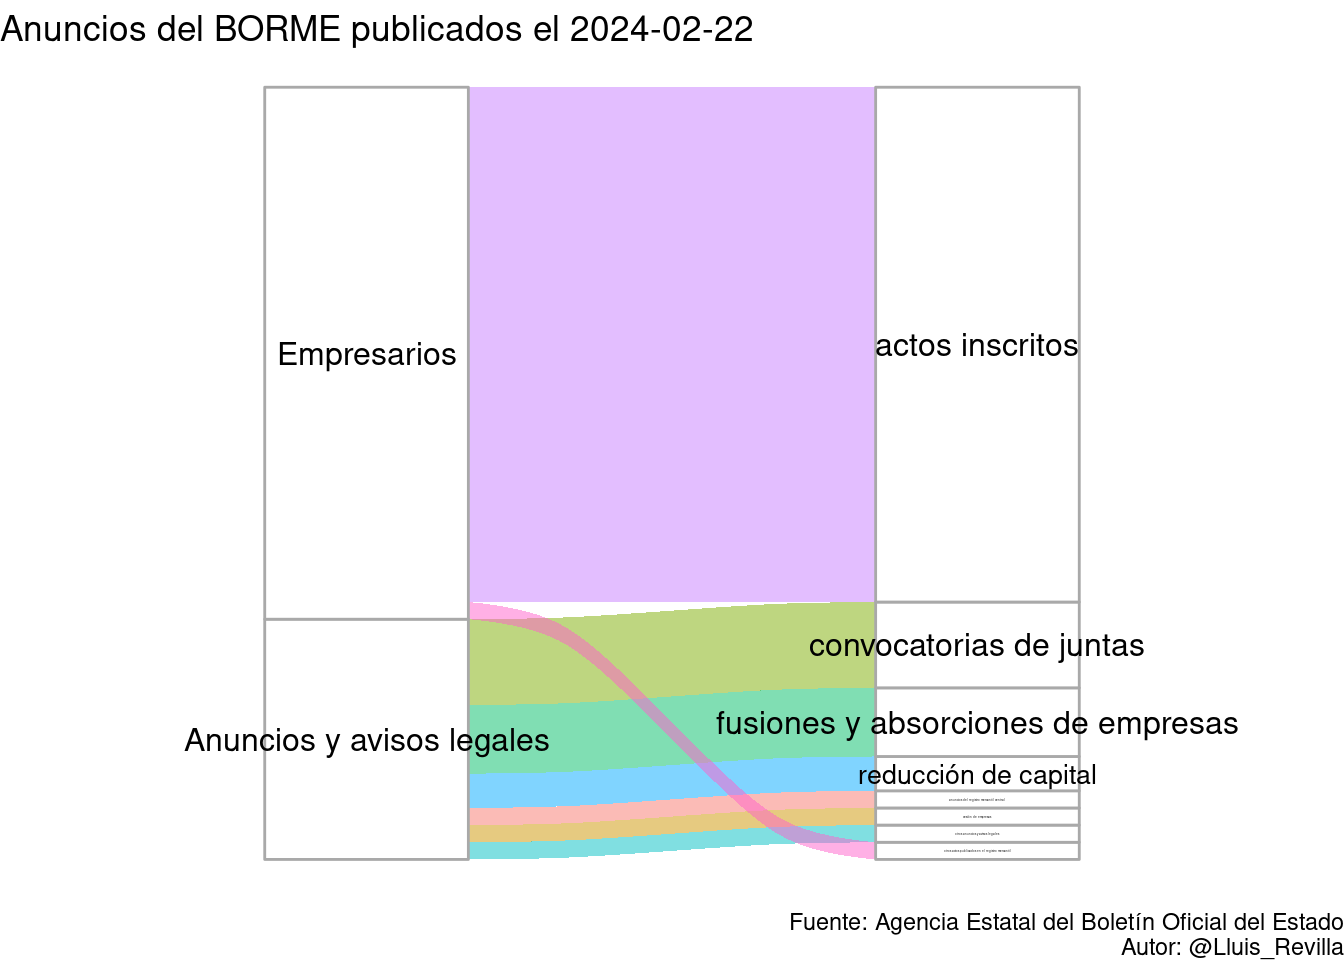
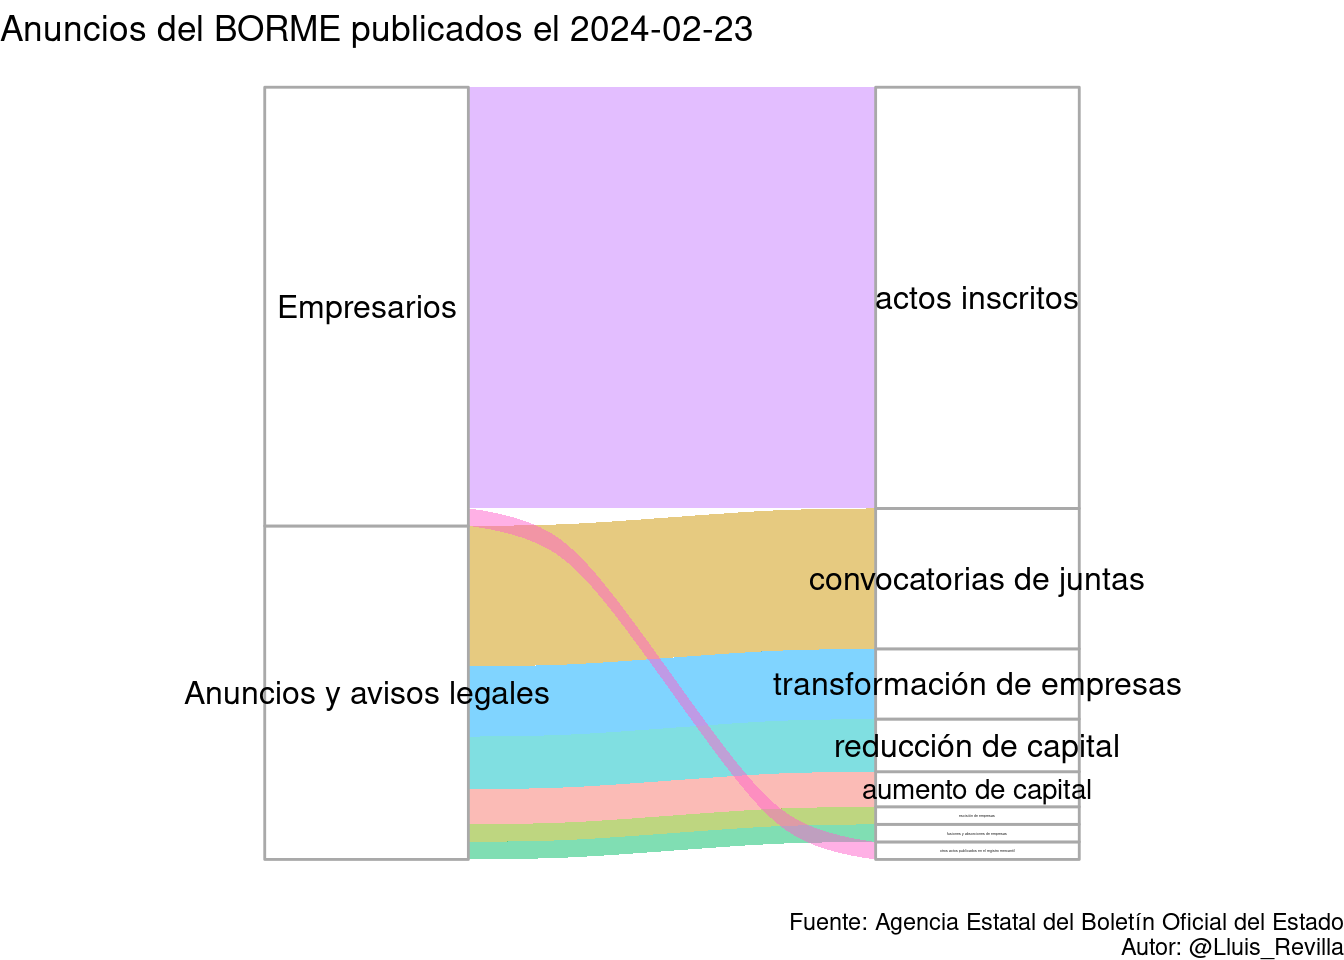
Update BORME

Changed region(s): [[0.125, 0.5312, 0.9375, 0.9062], [0.6562, 0.2812, 0.8125, 0.375], [0.1875, 0.3125, 0.3438, 0.375]]

diff --git a/docs/last_BORME.html b/docs/last_BORME.html
@@ -379,14 +379,14 @@ $(document).ready(function () {
 
 <div id="resumen-gráfico" class="section level1">
 <h1>Resumen gráfico</h1>
-<p>Esta página web contiene el último sumario del BORME publicado el 2024-02-22 con 45 publicaciones.</p>
+<p>Esta página web contiene el último sumario del BORME publicado el 2024-02-23 con 44 publicaciones.</p>
 <p><img src="last_BORME_files/figure-html/graphics-1.png" width="672" /></p>
 </div>
 <div id="tabla-de-publicaciones" class="section level1">
 <h1>Tabla de publicaciones</h1>
 <p>Aquí está la tabla completa con enlaces a las publicaciones:</p>
-<div class="datatables html-widget html-fill-item-overflow-hidden html-fill-item" id="htmlwidget-dfcee11cec05a3415c1f" style="width:100%;height:auto;"></div>
-<script type="application/json" data-for="htmlwidget-dfcee11cec05a3415c1f">{"x":{"filter":"top","vertical":false,"filterHTML":"<tr>\n  <td><\/td>\n  <td data-type=\"character\" style=\"vertical-align: top;\">\n    <div class=\"form-group has-feedback\" style=\"margin-bottom: auto;\">\n      <input type=\"search\" placeholder=\"All\" class=\"form-control\" style=\"width: 100%;\"/>\n      <span class=\"glyphicon glyphicon-remove-circle form-control-feedback\"><\/span>\n    <\/div>\n  <\/td>\n  <td data-type=\"character\" style=\"vertical-align: top;\">\n    <div class=\"form-group has-feedback\" style=\"margin-bottom: auto;\">\n      <input type=\"search\" placeholder=\"All\" class=\"form-control\" style=\"width: 100%;\"/>\n      <span class=\"glyphicon glyphicon-remove-circle form-control-feedback\"><\/span>\n    <\/div>\n  <\/td>\n  <td data-type=\"character\" style=\"vertical-align: top;\">\n    <div class=\"form-group has-feedback\" style=\"margin-bottom: auto;\">\n      <input type=\"search\" placeholder=\"All\" class=\"form-control\" style=\"width: 100%;\" disabled=\"\"/>\n      <span class=\"glyphicon glyphicon-remove-circle form-control-feedback\"><\/span>\n    <\/div>\n  <\/td>\n  <td data-type=\"character\" style=\"vertical-align: top;\">\n    <div class=\"form-group has-feedback\" style=\"margin-bottom: auto;\">\n      <input type=\"search\" placeholder=\"All\" class=\"form-control\" style=\"width: 100%;\"/>\n      <span class=\"glyphicon glyphicon-remove-circle form-control-feedback\"><\/span>\n    <\/div>\n  <\/td>\n<\/tr>","data":[["1","2","3","4","5","6","7","8","9","10","11","12","13","14","15","16","17","18","19","20","21","22","23","24","25","26","27","28","29","30","31","32","33","34","35","36","37","38","39","40","41","42","43","44","45"],["SECCIÓN PRIMERA. Empresarios","SECCIÓN PRIMERA. Empresarios","SECCIÓN PRIMERA. Empresarios","SECCIÓN PRIMERA. Empresarios","SECCIÓN PRIMERA. Empresarios","SECCIÓN PRIMERA. Empresarios","SECCIÓN PRIMERA. Empresarios","SECCIÓN PRIMERA. Empresarios","SECCIÓN PRIMERA. Empresarios","SECCIÓN PRIMERA. Empresarios","SECCIÓN PRIMERA. Empresarios","SECCIÓN PRIMERA. Empresarios","SECCIÓN PRIMERA. Empresarios","SECCIÓN PRIMERA. Empresarios","SECCIÓN PRIMERA. Empresarios","SECCIÓN PRIMERA. Empresarios","SECCIÓN PRIMERA. Empresarios","SECCIÓN PRIMERA. Empresarios","SECCIÓN PRIMERA. Empresarios","SECCIÓN PRIMERA. Empresarios","SECCIÓN PRIMERA. Empresarios","SECCIÓN PRIMERA. Empresarios","SECCIÓN PRIMERA. Empresarios","SECCIÓN PRIMERA. Empresarios","SECCIÓN PRIMERA. Empresarios","SECCIÓN PRIMERA. Empresarios","SECCIÓN PRIMERA. Empresarios","SECCIÓN PRIMERA. Empresarios","SECCIÓN PRIMERA. Empresarios","SECCIÓN PRIMERA. Empresarios","SECCIÓN PRIMERA. Empresarios","SECCIÓN SEGUNDA. Anuncios y avisos legales","SECCIÓN SEGUNDA. Anuncios y avisos legales","SECCIÓN SEGUNDA. Anuncios y avisos legales","SECCIÓN SEGUNDA. Anuncios y avisos legales","SECCIÓN SEGUNDA. Anuncios y avisos legales","SECCIÓN SEGUNDA. Anuncios y avisos legales","SECCIÓN SEGUNDA. Anuncios y avisos legales","SECCIÓN SEGUNDA. Anuncios y avisos legales","SECCIÓN SEGUNDA. Anuncios y avisos legales","SECCIÓN SEGUNDA. Anuncios y avisos legales","SECCIÓN SEGUNDA. Anuncios y avisos legales","SECCIÓN SEGUNDA. Anuncios y avisos legales","SECCIÓN SEGUNDA. Anuncios y avisos legales","SECCIÓN SEGUNDA. Anuncios y avisos legales"],["Actos inscritos","Actos inscritos","Actos inscritos","Actos inscritos","Actos inscritos","Actos inscritos","Actos inscritos","Actos inscritos","Actos inscritos","Actos inscritos","Actos inscritos","Actos inscritos","Actos inscritos","Actos inscritos","Actos inscritos","Actos inscritos","Actos inscritos","Actos inscritos","Actos inscritos","Actos inscritos","Actos inscritos","Actos inscritos","Actos inscritos","Actos inscritos","Actos inscritos","Actos inscritos","Actos inscritos","Actos inscritos","Actos inscritos","Actos inscritos","Otros actos publicados en el Registro Mercantil","ANUNCIOS DEL REGISTRO MERCANTIL CENTRAL","CONVOCATORIAS DE JUNTAS","CONVOCATORIAS DE JUNTAS","CONVOCATORIAS DE JUNTAS","CONVOCATORIAS DE JUNTAS","CONVOCATORIAS DE JUNTAS","FUSIONES Y ABSORCIONES DE EMPRESAS","FUSIONES Y ABSORCIONES DE EMPRESAS","FUSIONES Y ABSORCIONES DE EMPRESAS","FUSIONES Y ABSORCIONES DE EMPRESAS","CESIÓN DE EMPRESAS","REDUCCIÓN DE CAPITAL","REDUCCIÓN DE CAPITAL","OTROS ANUNCIOS Y AVISOS LEGALES"],[null,null,null,null,null,null,null,null,null,null,null,null,null,null,null,null,null,null,null,null,null,null,null,null,null,null,null,null,null,null,null,null,null,null,null,null,null,null,null,null,null,null,null,null,null],["BORME-A-2024-38-01","BORME-A-2024-38-02","BORME-A-2024-38-03","BORME-A-2024-38-04","BORME-A-2024-38-06","BORME-A-2024-38-07","BORME-A-2024-38-08","BORME-A-2024-38-09","BORME-A-2024-38-11","BORME-A-2024-38-15","BORME-A-2024-38-17","BORME-A-2024-38-18","BORME-A-2024-38-21","BORME-A-2024-38-24","BORME-A-2024-38-28","BORME-A-2024-38-29","BORME-A-2024-38-30","BORME-A-2024-38-31","BORME-A-2024-38-33","BORME-A-2024-38-35","BORME-A-2024-38-38","BORME-A-2024-38-39","BORME-A-2024-38-40","BORME-A-2024-38-43","BORME-A-2024-38-45","BORME-A-2024-38-46","BORME-A-2024-38-47","BORME-A-2024-38-48","BORME-A-2024-38-49","BORME-A-2024-38-99","BORME-B-2024-38-45","BORME-C-2024-577","BORME-C-2024-578","BORME-C-2024-579","BORME-C-2024-580","BORME-C-2024-581","BORME-C-2024-582","BORME-C-2024-583","BORME-C-2024-584","BORME-C-2024-585","BORME-C-2024-586","BORME-C-2024-587","BORME-C-2024-588","BORME-C-2024-589","BORME-C-2024-590"]],"container":"<table class=\"display\">\n  <thead>\n    <tr>\n      <th> <\/th>\n      <th>Sección<\/th>\n      <th>Emisor<\/th>\n      <th>Texto<\/th>\n      <th>Link<\/th>\n    <\/tr>\n  <\/thead>\n<\/table>","options":{"pageLength":10,"autoWidth":true,"columnDefs":[{"orderable":false,"targets":0},{"name":" ","targets":0},{"name":"Sección","targets":1},{"name":"Emisor","targets":2},{"name":"Texto","targets":3},{"name":"Link","targets":4}],"order":[],"orderClasses":false,"orderCellsTop":true}},"evals":[],"jsHooks":[]}</script>
+<div class="datatables html-widget html-fill-item-overflow-hidden html-fill-item" id="htmlwidget-f58797d49e3c8cb4771c" style="width:100%;height:auto;"></div>
+<script type="application/json" data-for="htmlwidget-f58797d49e3c8cb4771c">{"x":{"filter":"top","vertical":false,"filterHTML":"<tr>\n  <td><\/td>\n  <td data-type=\"character\" style=\"vertical-align: top;\">\n    <div class=\"form-group has-feedback\" style=\"margin-bottom: auto;\">\n      <input type=\"search\" placeholder=\"All\" class=\"form-control\" style=\"width: 100%;\"/>\n      <span class=\"glyphicon glyphicon-remove-circle form-control-feedback\"><\/span>\n    <\/div>\n  <\/td>\n  <td data-type=\"character\" style=\"vertical-align: top;\">\n    <div class=\"form-group has-feedback\" style=\"margin-bottom: auto;\">\n      <input type=\"search\" placeholder=\"All\" class=\"form-control\" style=\"width: 100%;\"/>\n      <span class=\"glyphicon glyphicon-remove-circle form-control-feedback\"><\/span>\n    <\/div>\n  <\/td>\n  <td data-type=\"character\" style=\"vertical-align: top;\">\n    <div class=\"form-group has-feedback\" style=\"margin-bottom: auto;\">\n      <input type=\"search\" placeholder=\"All\" class=\"form-control\" style=\"width: 100%;\" disabled=\"\"/>\n      <span class=\"glyphicon glyphicon-remove-circle form-control-feedback\"><\/span>\n    <\/div>\n  <\/td>\n  <td data-type=\"character\" style=\"vertical-align: top;\">\n    <div class=\"form-group has-feedback\" style=\"margin-bottom: auto;\">\n      <input type=\"search\" placeholder=\"All\" class=\"form-control\" style=\"width: 100%;\"/>\n      <span class=\"glyphicon glyphicon-remove-circle form-control-feedback\"><\/span>\n    <\/div>\n  <\/td>\n<\/tr>","data":[["1","2","3","4","5","6","7","8","9","10","11","12","13","14","15","16","17","18","19","20","21","22","23","24","25","26","27","28","29","30","31","32","33","34","35","36","37","38","39","40","41","42","43","44"],["SECCIÓN PRIMERA. Empresarios","SECCIÓN PRIMERA. Empresarios","SECCIÓN PRIMERA. Empresarios","SECCIÓN PRIMERA. Empresarios","SECCIÓN PRIMERA. Empresarios","SECCIÓN PRIMERA. Empresarios","SECCIÓN PRIMERA. Empresarios","SECCIÓN PRIMERA. Empresarios","SECCIÓN PRIMERA. Empresarios","SECCIÓN PRIMERA. Empresarios","SECCIÓN PRIMERA. Empresarios","SECCIÓN PRIMERA. Empresarios","SECCIÓN PRIMERA. Empresarios","SECCIÓN PRIMERA. Empresarios","SECCIÓN PRIMERA. Empresarios","SECCIÓN PRIMERA. Empresarios","SECCIÓN PRIMERA. Empresarios","SECCIÓN PRIMERA. Empresarios","SECCIÓN PRIMERA. Empresarios","SECCIÓN PRIMERA. Empresarios","SECCIÓN PRIMERA. Empresarios","SECCIÓN PRIMERA. Empresarios","SECCIÓN PRIMERA. Empresarios","SECCIÓN PRIMERA. Empresarios","SECCIÓN PRIMERA. Empresarios","SECCIÓN SEGUNDA. Anuncios y avisos legales","SECCIÓN SEGUNDA. Anuncios y avisos legales","SECCIÓN SEGUNDA. Anuncios y avisos legales","SECCIÓN SEGUNDA. Anuncios y avisos legales","SECCIÓN SEGUNDA. Anuncios y avisos legales","SECCIÓN SEGUNDA. Anuncios y avisos legales","SECCIÓN SEGUNDA. Anuncios y avisos legales","SECCIÓN SEGUNDA. Anuncios y avisos legales","SECCIÓN SEGUNDA. Anuncios y avisos legales","SECCIÓN SEGUNDA. Anuncios y avisos legales","SECCIÓN SEGUNDA. Anuncios y avisos legales","SECCIÓN SEGUNDA. Anuncios y avisos legales","SECCIÓN SEGUNDA. Anuncios y avisos legales","SECCIÓN SEGUNDA. Anuncios y avisos legales","SECCIÓN SEGUNDA. Anuncios y avisos legales","SECCIÓN SEGUNDA. Anuncios y avisos legales","SECCIÓN SEGUNDA. Anuncios y avisos legales","SECCIÓN SEGUNDA. Anuncios y avisos legales","SECCIÓN SEGUNDA. Anuncios y avisos legales"],["Actos inscritos","Actos inscritos","Actos inscritos","Actos inscritos","Actos inscritos","Actos inscritos","Actos inscritos","Actos inscritos","Actos inscritos","Actos inscritos","Actos inscritos","Actos inscritos","Actos inscritos","Actos inscritos","Actos inscritos","Actos inscritos","Actos inscritos","Actos inscritos","Actos inscritos","Actos inscritos","Actos inscritos","Actos inscritos","Actos inscritos","Actos inscritos","Otros actos publicados en el Registro Mercantil","CONVOCATORIAS DE JUNTAS","CONVOCATORIAS DE JUNTAS","CONVOCATORIAS DE JUNTAS","CONVOCATORIAS DE JUNTAS","CONVOCATORIAS DE JUNTAS","CONVOCATORIAS DE JUNTAS","CONVOCATORIAS DE JUNTAS","CONVOCATORIAS DE JUNTAS","FUSIONES Y ABSORCIONES DE EMPRESAS","ESCISIÓN DE EMPRESAS","TRANSFORMACIÓN DE EMPRESAS","TRANSFORMACIÓN DE EMPRESAS","TRANSFORMACIÓN DE EMPRESAS","TRANSFORMACIÓN DE EMPRESAS","AUMENTO DE CAPITAL","AUMENTO DE CAPITAL","REDUCCIÓN DE CAPITAL","REDUCCIÓN DE CAPITAL","REDUCCIÓN DE CAPITAL"],[null,null,null,null,null,null,null,null,null,null,null,null,null,null,null,null,null,null,null,null,null,null,null,null,null,null,null,null,null,null,null,null,null,null,null,null,null,null,null,null,null,null,null,null],["BORME-A-2024-39-02","BORME-A-2024-39-06","BORME-A-2024-39-08","BORME-A-2024-39-13","BORME-A-2024-39-15","BORME-A-2024-39-18","BORME-A-2024-39-19","BORME-A-2024-39-20","BORME-A-2024-39-28","BORME-A-2024-39-29","BORME-A-2024-39-30","BORME-A-2024-39-34","BORME-A-2024-39-35","BORME-A-2024-39-36","BORME-A-2024-39-37","BORME-A-2024-39-38","BORME-A-2024-39-40","BORME-A-2024-39-43","BORME-A-2024-39-44","BORME-A-2024-39-46","BORME-A-2024-39-47","BORME-A-2024-39-49","BORME-A-2024-39-50","BORME-A-2024-39-99","BORME-B-2024-39-28","BORME-C-2024-591","BORME-C-2024-592","BORME-C-2024-593","BORME-C-2024-594","BORME-C-2024-595","BORME-C-2024-596","BORME-C-2024-597","BORME-C-2024-598","BORME-C-2024-599","BORME-C-2024-600","BORME-C-2024-601","BORME-C-2024-602","BORME-C-2024-603","BORME-C-2024-604","BORME-C-2024-605","BORME-C-2024-606","BORME-C-2024-607","BORME-C-2024-608","BORME-C-2024-609"]],"container":"<table class=\"display\">\n  <thead>\n    <tr>\n      <th> <\/th>\n      <th>Sección<\/th>\n      <th>Emisor<\/th>\n      <th>Texto<\/th>\n      <th>Link<\/th>\n    <\/tr>\n  <\/thead>\n<\/table>","options":{"pageLength":10,"autoWidth":true,"columnDefs":[{"orderable":false,"targets":0},{"name":" ","targets":0},{"name":"Sección","targets":1},{"name":"Emisor","targets":2},{"name":"Texto","targets":3},{"name":"Link","targets":4}],"order":[],"orderClasses":false,"orderCellsTop":true}},"evals":[],"jsHooks":[]}</script>
 </div>
 
 
